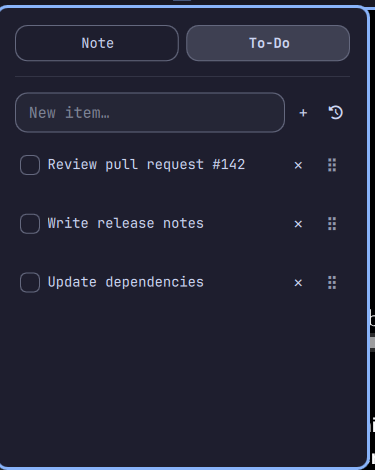
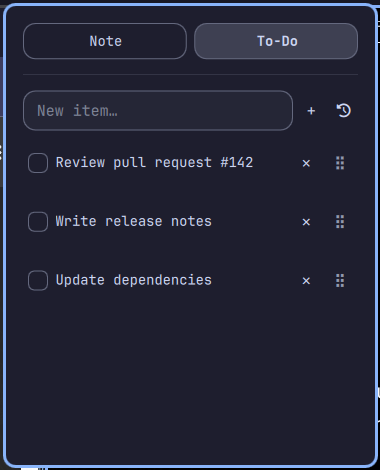
Fix screenshots cut off at the panel's bottom border
Note tab screenshot is now a fresh capture of the current UI (with the
Note/To-Do tab header) instead of the pre-fork upstream image, which was
itself cropped mid-panel.

diff --git a/README.md b/README.md
@@ -14,10 +14,9 @@ Omarchy bar, and saves both automatically.
 
 This is a fork of [Omanote](https://github.com/brianblakely/omanote) by
 Brian Blakely (MIT-licensed) — the note view, its Secret Service storage,
-and the panel plumbing are his (`preview.png` above is his original
-screenshot). The added To-Do tab (add/complete/delete, drag-to-reorder,
-inline editing, its own storage field) is new here. See [LICENSE](LICENSE)
-for the original copyright notice.
+and the panel plumbing are his. The added To-Do tab (add/complete/delete,
+drag-to-reorder, inline editing, its own storage field) is new here. See
+[LICENSE](LICENSE) for the original copyright notice.
 
 ## Install
 
